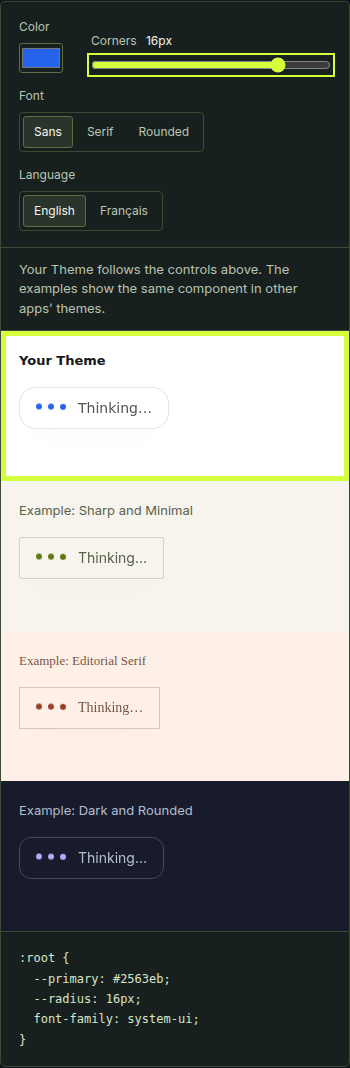
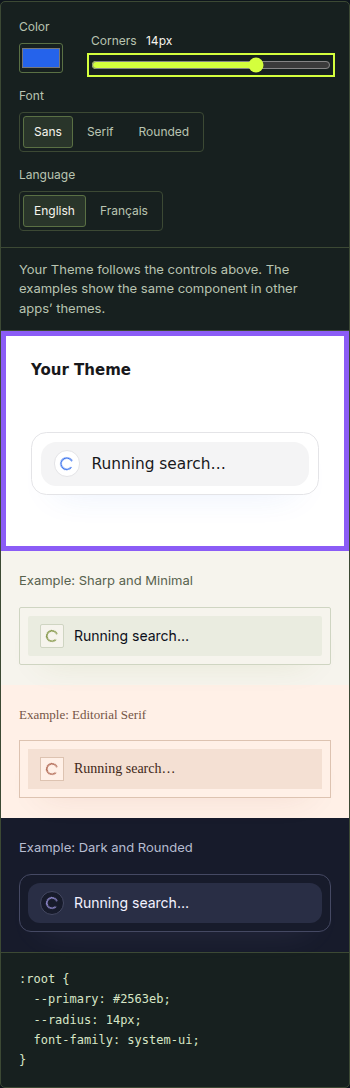
Landing: readable previews, purple main theme card, four live hero demos, next-crate vote
- Catalog: every component preview sits on its own white panel, whatever the
  card color, and the Done preview stays fully visible (the component fades to
  .25 after its message, which was 1.44:1 on the lime card). Small text on
  the colored cards that fell just under 4.5:1 is darker, and so is the hero's
  green line (4.49:1).
- Make It Yours: the live "Your Theme" card has a purple outline and change
  highlight, and is the large main card, with the three examples stacked
  beside it.
- Hero: four live components (Thinking, Tool Call, Agent Plan, Approval)
  cycle on the page's demo clock (Pause stops them). The Tool Call preview now
  steps through its calls instead of standing still, in the catalog too.
  visual-check expects the four demos.
- Last section: "Soon" for crates 2 and 3 is replaced by "What Should We Build
  Next?", listing the candidate crates from ROADMAP.md stage 5 with one line
  each, saying they're candidates picked by demand, and a "Notify Me and Vote"
  button. Its link is a placeholder (NEXT_CRATE_FORM_URL in lib/config.ts).

Claude-Session: https://claude.ai/code/session_013Zdnk7po92Tyxs3pd6XRhQ

diff --git a/crate/app/page.tsx b/crate/app/page.tsx
@@ -5,7 +5,7 @@ import { CratePreloader } from "@/components/crate-preloader";
 import { ThemeLab } from "./theme-lab";
 import { ArrowUpRight, ArrowRight, Check, Copy, Plus, Minus, Pause, Play, RotateCcw, Terminal, Code2, Box, GitBranch, Braces } from "lucide-react";
 import { AgentPlan, Approval, Done, ErrorState, FileProcessing, Queue, ReasoningTrace, Sources, Stalled, Streaming, Thinking, ToolCall } from "@/components/agent-wait-states";
-import { SITE_URL } from "@/lib/config";
+import { NEXT_CRATE_FORM_URL, SITE_URL } from "@/lib/config";
 
 // The prompt names the site, so a coding agent goes straight to Crate.
 const AGENT_PROMPT = `Add Crate wait states to my chat (${new URL(SITE_URL).host})`;
@@ -38,6 +38,10 @@ function CopyButton({text}: {text:string}) {
 function Command({text=installCommand}:{text?:string}){return <div className="command"><Terminal size={16} aria-hidden="true"/><code>{text}</code><CopyButton text={text}/></div>}
 function DemoApproval(){const [decision,setDecision]=useState<string|null>(null);return decision?<div className="decision"><Check size={18}/><span>{decision} in demo</span><button onClick={()=>setDecision(null)} aria-label="Reset approval demo"><RotateCcw size={15}/></button></div>:<Approval accent title="Send this email?" preview="The agent wants to send this email." onAllow={()=>setDecision("Allowed")} onDeny={()=>setDecision("Denied")}/>}
 function RetryDemo(){const [retry,setRetry]=useState(false);return retry?<div className="decision"><Done accent label="Retry complete"/><button onClick={()=>setRetry(false)} aria-label="Reset error demo"><RotateCcw size={15}/></button></div>:<ErrorState message="Connection interrupted." onRetry={()=>setRetry(true)}/>}
+// Candidate crates from ROADMAP.md (stage 5): candidates, not a fixed plan.
+const nextCrates:[string,string][]=[["Input and Composer","The box people type into: attachments, commands, and send states."],["Human-in-the-Loop","Reviews, edits, and sign-offs before an agent acts."],["Voice","Listening, speaking, and taking turns in voice AI."],["Generative UI","Components the model picks and fills in as it answers."],["Artifacts and Canvas","Panels for the documents, code, and drafts the AI creates."],["Feedback and Evals","Ratings and corrections that feed your evals."],["Usage and Cost","Tokens, limits, and spend, shown plainly to your users."]];
+const heroCards:Partial<Record<Kind,string>>={thinking:"thinking-card","tool-call":"tool-card","agent-plan":"plan-card",approval:"approval-card"};
+const heroNames:Partial<Record<Kind,string>>={thinking:"Thinking","tool-call":"Tool Call","agent-plan":"Agent Plan",approval:"Approval"};
 function Preview({kind,tick}:{kind:Kind;tick:number}){
 const phase=tick%4;
 switch(kind){
@@ -45,7 +49,7 @@ switch(kind){
  case "queue":return <Queue accent position={Math.max(1,3-phase)}/>;
  case "file-processing":return <FileProcessing accent filename="document.pdf" size="Demo file" stage={(["uploading","reading","chunking","ready"] as const)[phase]} progress={[24,52,78,100][phase]}/>;
  case "reasoning-trace":return <ReasoningTrace accent text="Reading the request. Choosing the next step." done={phase===3} durationSeconds={12}/>;
- case "tool-call":return <ToolCall accent toolName="search" label="Searching the web…"/>;
+ case "tool-call":return <ToolCall accent done={phase===3} steps={["Searching the web…","Reading a file…","Comparing results…"].map((label,i)=>({label,state:i<phase?"complete" as const:i===phase?"active" as const:"pending" as const}))}/>;
  case "agent-plan":return <AgentPlan accent steps={["Read the request","Run the tools","Write the answer"].map((label,i)=>({label,state:i<phase?"complete":i===phase?"active":"pending"}))}/>;
  case "streaming":return <Streaming accent text={"A little polish goes a long way.".slice(0,9+phase*8)}/>;
  case "sources":return <Sources accent sources={sources.slice(0,phase+1)} maxVisible={3}/>;
@@ -83,14 +87,14 @@ export default function Home(){
  <p className="hero-description">Thinking, tool calls, approvals, and everything in between. Install them yourself, or just ask your coding agent.</p>
  <div className="hero-actions"><a className="button primary" href="#crates">Explore the Components <ArrowRight size={17}/></a><a className="text-button" href="#setup">See the Setup <ArrowUpRight size={17}/></a></div>
  <Command/><p className="agent-hint">Or ask your agent: <span>“{AGENT_PROMPT}”</span></p>
- </div><div className="demo-board"><div className="board-heading"><span><Box size={17}/> Crate #1 / Wait States</span><button onClick={()=>setPlaying(v=>!v)} aria-label={playing?"Pause demo animations":"Play demo animations"}>{playing?<Pause size={14}/>:<Play size={14}/>}<span>{playing?"Pause Demos":"Play Demos"}</span></button></div><div className="network network-single" aria-label="Interactive component demos"><article className="demo-card approval-card"><div className="card-caption"><span>Approval</span><span>01</span></div><DemoApproval/></article></div><div className="board-foot"><span className="live-dot"/><span>Live components. Try the approval buttons.</span></div></div></div>
+ </div><div className="demo-board"><div className="board-heading"><span><Box size={17}/> Crate #1 / Wait States</span><button onClick={()=>setPlaying(v=>!v)} aria-label={playing?"Pause demo animations":"Play demo animations"}>{playing?<Pause size={14}/>:<Play size={14}/>}<span>{playing?"Pause Demos":"Play Demos"}</span></button></div><div className="network hero-network" aria-label="Interactive component demos">{(["thinking","tool-call","agent-plan","approval"] as Kind[]).map((kind,i)=><article className={`demo-card ${heroCards[kind]}`} key={kind}><div className="card-caption"><span>{heroNames[kind]}</span><span>0{i+1}</span></div><Preview kind={kind} tick={tick}/></article>)}</div><div className="board-foot"><span className="live-dot"/><span>Live components, cycling through their states. Try the approval buttons.</span></div></div></div>
  <div className="shell"><div className="hero-facts"><div className="fact"><span className="fact-number">12</span><span>UI states<br/><small>in the first crate</small></span></div><div className="fact"><span className="fact-number">1</span><span>install command<br/><small>for the whole collection</small></span></div><a className="fact" href="#setup"><span className="fact-number">2</span><span>lines of setup<br/><small>to connect your chat</small></span><ArrowUpRight size={17}/></a><a className="release" href="https://github.com/OneRollStudios/crate" target="_blank" rel="noreferrer"><GitBranch size={23}/><span><strong>Free & open source.</strong><small>Crate #1 · MIT licensed</small></span><ArrowUpRight size={18}/></a></div></div></section>
  <section className="problem dark-section" id="problem"><div className="shell problem-grid problem-grid-single"><div className="problem-copy"><h2>The Better AI Products Feel Better Because Someone <span>Sweated the Small Moments.</span></h2><p>What’s it doing? Did it stop? Can I try again?<br/>Your interface should have an answer.</p><div className="problem-cost"><span className="plain-spinner"/><div><h3>Getting Those Right Takes Work.</h3><p>A spinner is easy to ship.<br/>It leaves your users guessing.</p></div></div></div></div></section>
  <section className="setup section" id="setup"><div className="shell"><div className="setup-heading"><div className="setup-numeral" aria-hidden="true">2<span>lines</span></div><div><h2>Two Lines of Setup.<br/><span>The Right UI for Every State.</span></h2><p>Connect your existing chat. Crate follows the AI stream and switches the interface as the work changes.</p></div></div><SetupDemo tick={tick}/><div className="setup-notes"><span><Check size={17}/> Automatic state detection with the Vercel AI SDK</span><span><Check size={17}/> Using another stack? Pass the status yourself.</span></div></div></section>
  <section className="make-it-yours dark-section section" id="theme"><div className="shell"><div className="lab-heading"><h2>Looks Like Your App,<br/><span>Not Ours.</span></h2><p>Crate reads your theme. Change your colors, corners, fonts, or language, and every state follows.</p></div><ThemeLab tick={tick}/><div className="lab-footer"><div className="ownership"><Braces size={24}/><div><h3>The Components Live in Your Codebase.</h3><p>Read them. Change them. Make them yours.</p></div></div><div className="stack-tags"><span>React</span><span>Tailwind</span><span>shadcn</span></div></div></div></section>
  <section className="crates section" id="crates"><div className="shell"><div className="crate-heading"><div><span className="collection-label"><Box size={19}/> Crate #1</span><h2>Wait States.</h2><p>Every moment between a request and a response.</p></div><div><a className="button primary" href="#install">Install All 12 Components <ArrowUpRight size={17}/></a><p>Or pick the pieces you need.</p></div></div><div className="component-stack">{groups.map((g,gi)=><section className={`category-card category-${gi}`} style={{"--card-index":gi} as CSSProperties} key={g.title}><header className="category-heading"><div><span className="category-number">0{gi+1}</span><h3>{g.title}</h3></div><span className="category-count">{g.rows.length} {g.rows.length===1?"component":"components"}</span></header><div className="category-body">{g.rows.map(row=><article className={open===row.key?"component-row is-open":"component-row"} key={row.key}><div className="row-main"><button className="row-info" aria-expanded={open===row.key} aria-controls={`install-${row.key}`} onClick={()=>setOpen(open===row.key?null:row.key)}><span className="row-name">{row.name}{open===row.key?<Minus size={16}/>:<Plus size={16}/>}</span><span className="row-description">{row.description}</span></button><div className="row-preview"><Preview kind={row.key} tick={tick}/></div></div><div className="row-command" id={`install-${row.key}`} hidden={open!==row.key}><Command text={`npx shadcn@latest add https://crate.onerollstudios.com/r/${row.key}.json`}/><a className="row-docs" href={`/docs/${row.key}/`}>Props, States, and Playground <ArrowRight size={15}/></a></div></article>)}</div>{gi===3?<div className="done-graphic"><div className="done-check"><Check strokeWidth={1.3}/></div><p>The work is done.<br/><span>Let the answer take over.</span></p></div>:null}</section>)}</div></div></section>
  <section className="install dark-section section" id="install"><div className="shell"><div className="install-heading"><h3>Bring Crate Into Your Next Build.</h3><span>Crate #1 is free & open source.</span></div><div className="install-cards"><article><div className="install-card-title"><Terminal size={23}/><h4>Install It Yourself</h4></div><Command/></article><article><div className="install-card-title"><Code2 size={23}/><h4>Ask Your Coding Agent</h4></div><div className="agent-command"><span>›</span> {AGENT_PROMPT} <CopyButton text={AGENT_PROMPT}/></div></article></div></div></section>
- <section className="coming section"><div className="shell coming-layout"><h2>One Crate Today.<br/><span>More on the Way.</span></h2><div className="crate-shelf"><a href="#crates"><span>01</span><strong>Wait States</strong><span className="available">Available now <ArrowUpRight size={15}/></span></a><div><span>02</span><strong>Next Crate</strong><span>Soon</span></div><div><span>03</span><strong>Next Crate</strong><span>Soon</span></div></div></div></section>
+ <section className="coming section"><div className="shell coming-layout"><h2>One Crate Today.<br/><span>More on the Way.</span></h2><div className="crate-shelf"><a href="#crates"><span>01</span><strong>Wait States</strong><span className="available">Available now <ArrowUpRight size={15}/></span></a><div className="next-crates"><h3>What Should We Build Next?</h3><p>These are candidates, not promises. The next crate is the one people need most, so tell us which.</p><ul>{nextCrates.map(([name,line])=><li key={name}><strong>{name}</strong><span>{line}</span></li>)}</ul><a className="button primary" href={NEXT_CRATE_FORM_URL}>Notify Me and Vote <ArrowUpRight size={17}/></a></div></div></div></section>
  <footer className="site-footer"><div className="shell"><div className="footer-cta"><div><h2>Build the Product.<br/><span>We’ve Packed the Details.</span></h2><p>Start with 12 ready-made wait states.</p></div><a href="#install" className="footer-install" aria-label="Install Crate #1"><ArrowUpRight strokeWidth={1.3}/><span>Install Crate #1</span></a></div><div className="footer-links"><div><span>Crate #1</span><strong>Free. Open source. Yours.</strong></div><nav aria-label="Footer navigation"><a href="#crates">Components <ArrowUpRight size={15}/></a><a href="/docs/">Documentation <ArrowRight size={15}/></a><a href="https://github.com/OneRollStudios/crate" target="_blank" rel="noreferrer">GitHub <ArrowUpRight size={15}/></a></nav></div><div className="footer-wordmark" aria-label="Crate">crate<span>.</span><div className="wordmark-grid" aria-hidden="true"/></div><div className="footer-bottom"><a href="https://onerollstudios.com" target="_blank" rel="noreferrer">Made by One Roll Studios <ArrowUpRight size={15}/></a><span>React components for AI products.</span><a href="#top">Back to Top ↑</a></div></div></footer>
  </main></>
 }

diff --git a/crate/app/globals.css b/crate/app/globals.css
@@ -20,7 +20,7 @@
 
 
 /* Brand entrance: no progress fiction, no scroll lock, no focus capture. */
-.hero-promise{color:#607913}
+.hero-promise{color:#5a7212}
 .crate-preloader{position:fixed;inset:0;z-index:1000;display:grid;place-items:center;background:#0a0e1a;color:#f6f4ed;pointer-events:none;animation:preloader-failsafe 2.8s step-end forwards;transition:clip-path .65s cubic-bezier(.76,0,.24,1);clip-path:inset(0 0 0 0)}
 .crate-preloader.is-leaving{clip-path:inset(0 0 100% 0)}
 .preloader-lockup{display:flex;align-items:center;gap:25px;transform:translateY(-15px)}
@@ -65,8 +65,8 @@
 .lab-note{margin:0;padding:12px 18px;border-bottom:1px solid #3c4934;font-size:13px;line-height:1.5;color:#bac5b2}
 .lab-panel-yours{position:relative;transition:background .25s,color .25s,box-shadow .2s}
 .lab-panel-yours .lab-panel-name{color:var(--foreground);font-weight:600}
-.lab-panel-yours[data-changed]{box-shadow:inset 0 0 0 5px #d4ff3d}
-.lab-panel-yours{outline:2px solid #d4ff3d;outline-offset:-2px}
+.lab-panel-yours[data-changed]{box-shadow:inset 0 0 0 5px #8b5cf6}
+.lab-panel-yours{outline:2px solid #8b5cf6;outline-offset:-2px}
 .lab-code{margin:0;padding:16px 18px;border-top:1px solid #3c4934;color:#d7e6c6;font:12px/1.7 ui-monospace,monospace;overflow-x:auto;white-space:pre}
 .lab-footer{display:flex;flex-wrap:wrap;justify-content:space-between;align-items:end;gap:20px 40px}
 .lab-footer .stack-tags{margin-top:0}
@@ -86,3 +86,41 @@
 @media(min-width:701px) and (min-height:741px) and (prefers-reduced-motion:no-preference){.category-card{top:var(--card-top,calc(24px + var(--card-index)*22px))}}
 .category-0{background:#fdfdf9}.category-1{background:#f7f9f0}.category-2{background:#f1f5e7}
 @media(max-width:700px){.component-stack{--stack-gap:23px}.category-card{box-shadow:0 2px 8px #1e32121f}}
+
+/* Catalog previews: every component sits on its own neutral surface, whatever
+   the card's color, so its text keeps at least 4.5:1. The Done preview stays
+   fully visible here (the component itself fades to .25 after its message). */
+.row-preview{background:#fff;border:1px solid #d3dac6;border-radius:6px;padding:14px 16px;--background:#fff;--foreground:#0a0e1a;--muted:#eef1e8;--muted-foreground:#4c5845;--border:#d5dcc8;color:#0a0e1a}
+.row-preview .crate-done{opacity:1!important;animation:none!important}
+
+/* Make It Yours: the live card is the main one, larger than the examples. */
+.lab-panels{grid-template-columns:minmax(0,1.5fr) minmax(0,1fr)}
+.lab-panel-yours{grid-row:1/span 3;padding:28px 30px;min-height:330px}
+.lab-panel-yours .lab-panel-name{font-size:15px;margin-bottom:22px}
+.lab-panel-yours>div{zoom:1.2}
+.lab-panel:not(.lab-panel-yours){min-height:110px}
+@media(max-width:980px){.lab-panels{grid-template-columns:repeat(3,minmax(0,1fr))}.lab-panel-yours{grid-column:1/-1;grid-row:auto;min-height:220px}}
+@media(max-width:700px){.lab-panels{grid-template-columns:minmax(0,1fr)}.lab-panel-yours>div{zoom:1.1}}
+
+/* Hero: four live components side by side, all on the page's demo clock. */
+.hero-network{grid-template-rows:auto auto;align-items:stretch}
+.hero-network .demo-card{min-height:150px;--background:#fff;--muted:#eef1e8;--muted-foreground:#4c5845;--border:#d5dcc8}
+
+/* "What Should We Build Next?": the candidate crates and the vote link. */
+.crate-shelf>.next-crates{display:block;padding:26px 0 4px;border-bottom:0}
+.next-crates h3{font-size:22px;font-weight:500;letter-spacing:-.02em}
+.next-crates>p{font-size:15px;line-height:1.6;color:#4f5b44;margin-top:8px;max-width:520px}
+.next-crates ul{list-style:none;margin:18px 0 22px;padding:0;display:grid;gap:0}
+.next-crates li{display:grid;grid-template-columns:minmax(150px,190px) 1fr;gap:6px 18px;padding:11px 0;border-top:1px solid #dfe5d4;font-size:14px;line-height:1.5}
+.next-crates li strong{font-size:15px;font-weight:500}
+.next-crates li span{color:#4f5b44}
+@media(max-width:700px){.next-crates li{grid-template-columns:1fr;gap:2px}}
+
+/* Small text that fell just under 4.5:1 on its card color. */
+.category-count{color:#4b5a3f}
+.category-3 .row-description,.category-3 .category-count{color:#3f4c33}
+.done-graphic p span{color:#3c5523}
+.crate-shelf>a>span.available{color:#36501a}
+.lab-panel-yours{display:flex;flex-direction:column}.lab-panel-yours>div{margin-block:auto}
+.hero-network .plan-card{border-color:#cbd2ba}.hero-network .plan-card .card-caption{color:#4f5c40}.hero-network .plan-card .card-caption>span:last-child{color:#5d6a4c}.hero-network .plan-card>div[aria-live]>div:first-child{color:#0a0e1a}
+.coming h2>span{color:#5c684c}

diff --git a/crate/lib/config.ts b/crate/lib/config.ts
@@ -10,3 +10,7 @@ export function registryUrl(name: string) {
 export function installCommand(name: string) {
   return `npx shadcn@latest add ${registryUrl(name)}`;
 }
+
+// The "Notify Me and Vote" form for the next crate. Placeholder until the form
+// exists: replace with the form's URL.
+export const NEXT_CRATE_FORM_URL = "#vote-next-crate";
